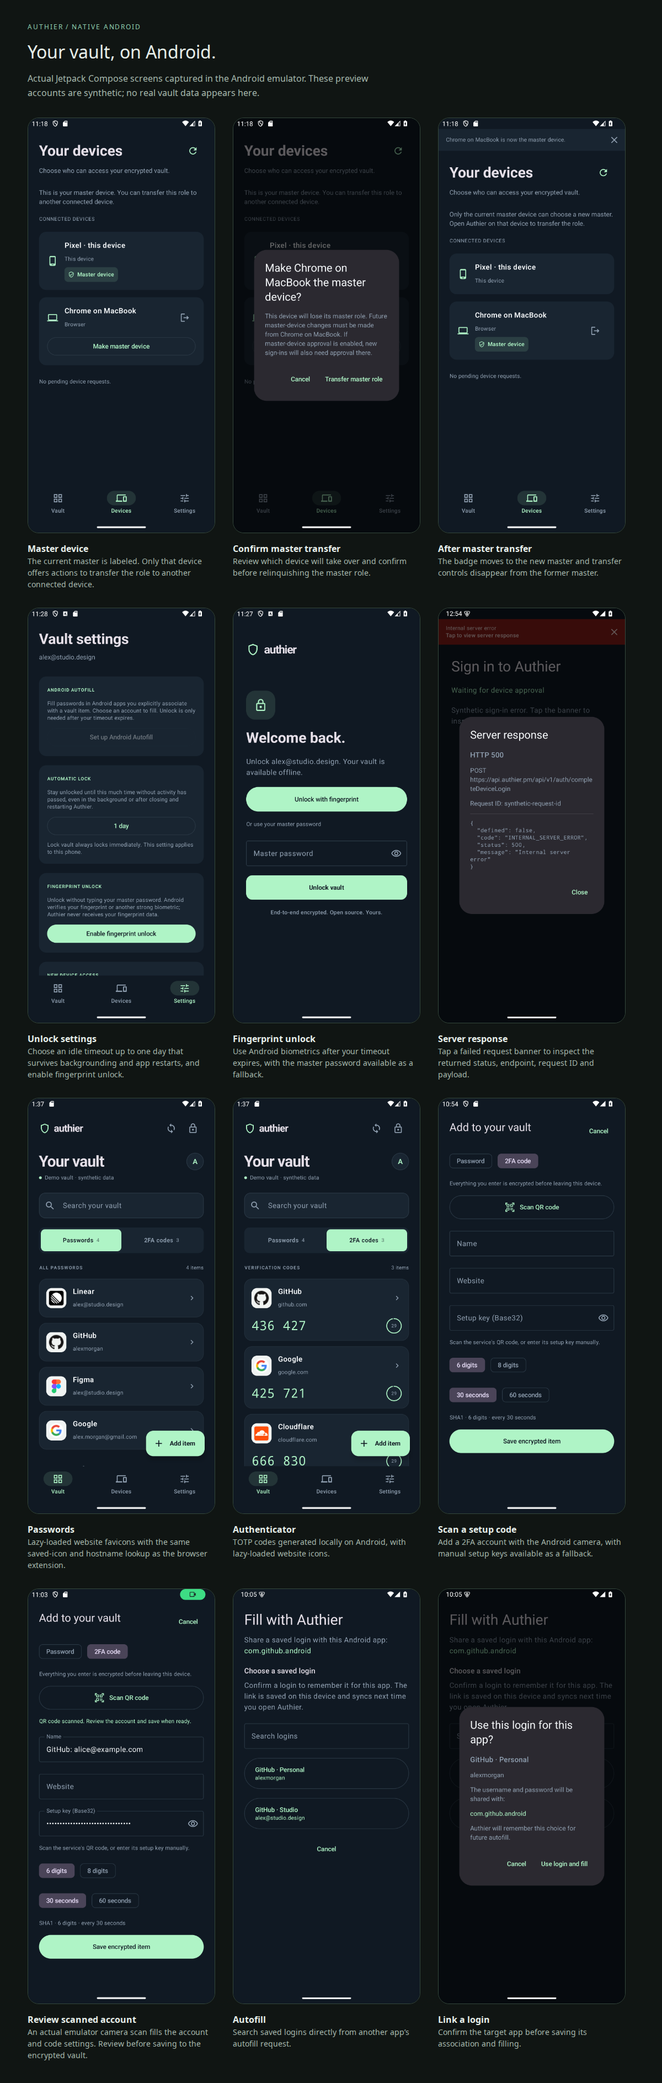
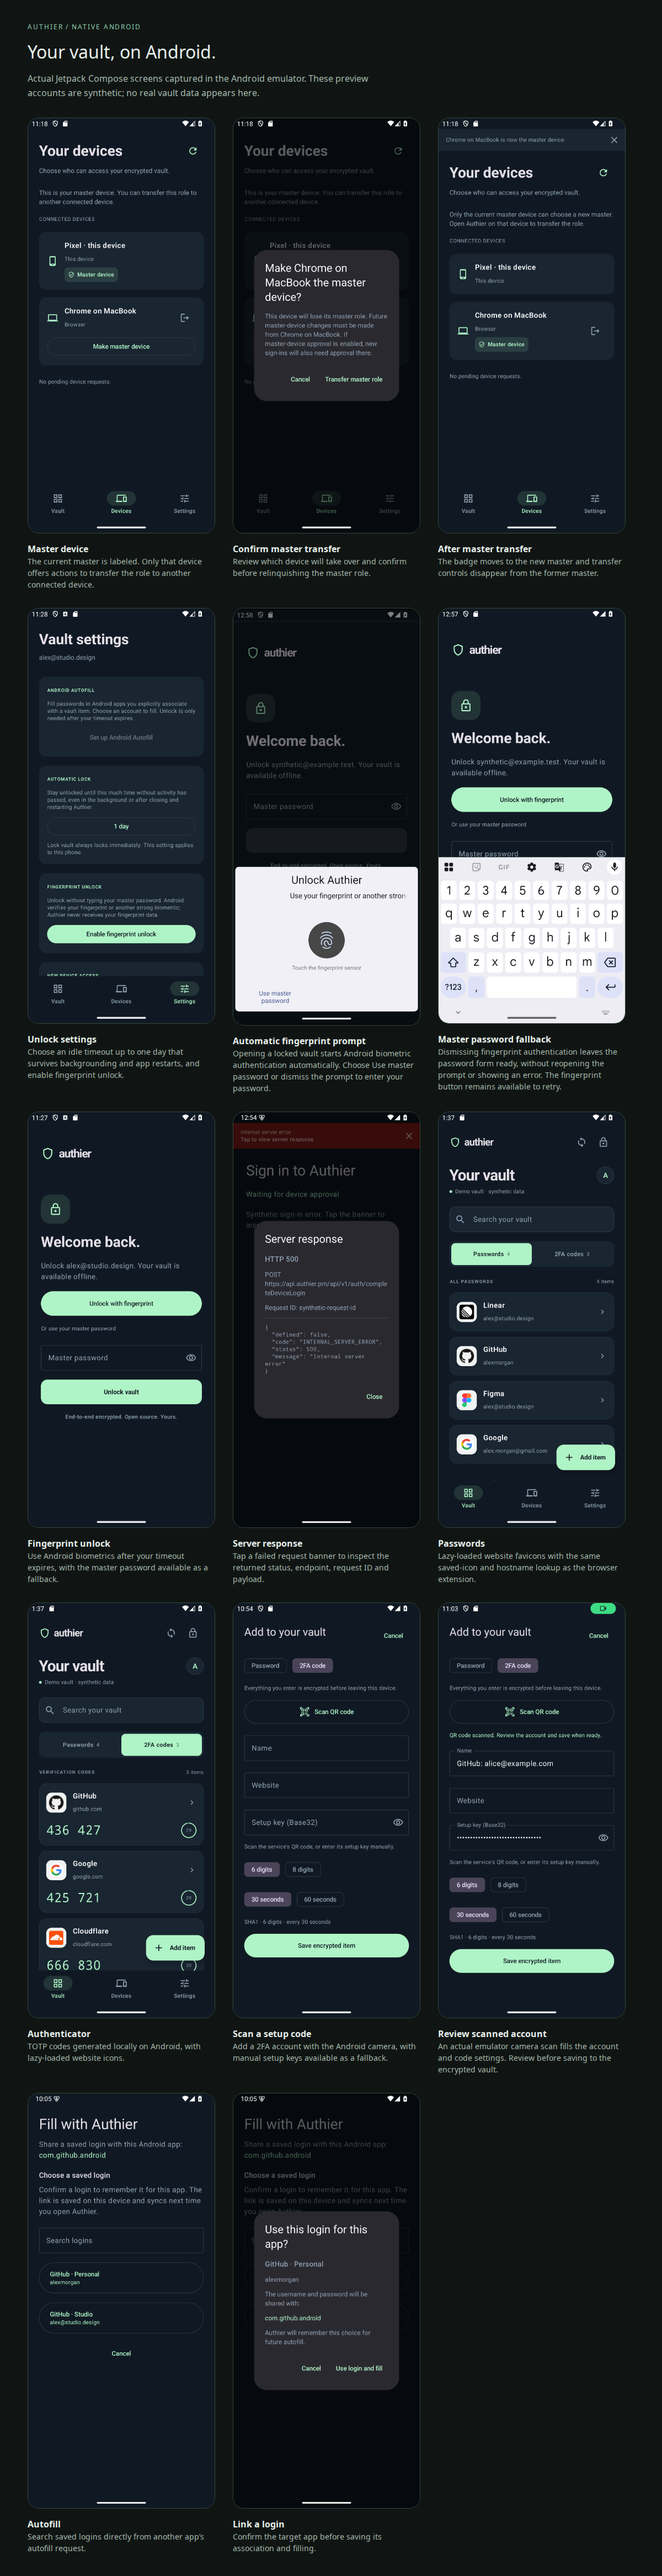
Add automatic biometric unlock with password fallback

diff --git a/android-app/app/src/androidTest/java/dev/authier/android/BiometricUnlockTest.kt b/android-app/app/src/androidTest/java/dev/authier/android/BiometricUnlockTest.kt
@@ -2,26 +2,126 @@ package dev.authier.android
 
 import android.content.Context
 import android.content.Intent
+import android.graphics.Bitmap
+import android.os.SystemClock
+import android.view.WindowManager
+import android.view.accessibility.AccessibilityNodeInfo
 import androidx.biometric.BiometricManager
+import androidx.compose.ui.test.junit4.createEmptyComposeRule
+import androidx.compose.ui.test.onNodeWithText
+import androidx.compose.ui.test.performClick
+import androidx.compose.ui.test.performTextInput
+import androidx.lifecycle.ViewModelProvider
 import androidx.test.core.app.ActivityScenario
 import androidx.test.core.app.ApplicationProvider
 import androidx.test.ext.junit.runners.AndroidJUnit4
 import androidx.test.platform.app.InstrumentationRegistry
 import kotlinx.coroutines.Dispatchers
+import kotlinx.coroutines.flow.first
 import kotlinx.coroutines.runBlocking
 import kotlinx.coroutines.withContext
 import kotlinx.coroutines.withTimeout
 import org.junit.After
+import org.junit.Rule
 import org.junit.Assert.*
 import org.junit.Assume.assumeTrue
 import org.junit.Test
 import org.junit.runner.RunWith
+import dev.authier.android.crypto.AuthierCrypto
+import java.io.File
 
 /** Run with -e biometricTest true on an emulator with a fingerprint enrolled; touch it for both prompts. */
 @RunWith(AndroidJUnit4::class)
 class BiometricUnlockTest {
+    @get:Rule val compose = createEmptyComposeRule()
     private val context: Context = ApplicationProvider.getApplicationContext()
     private var scenario: ActivityScenario<MainActivity>? = null
+
+    private fun awaitPrompt(): AccessibilityNodeInfo {
+        val automation = InstrumentationRegistry.getInstrumentation().uiAutomation
+        val deadline = SystemClock.uptimeMillis() + 10_000
+        while (SystemClock.uptimeMillis() < deadline) {
+            val button = automation.rootInActiveWindow?.findAccessibilityNodeInfosByText("Use master password")?.firstOrNull()
+            if (button != null) return button
+            SystemClock.sleep(50)
+        }
+        error("Expected the automatic Android biometric prompt")
+    }
+
+    private fun awaitIdle(model: VaultViewModel) = runBlocking {
+        withContext(Dispatchers.Main) { withTimeout(30_000) { model.ui.first { !it.busy } } }
+    }
+
+    private fun capture(name: String) {
+        val automation = InstrumentationRegistry.getInstrumentation().uiAutomation
+        automation.waitForIdle(300, 5000)
+        val bitmap = requireNotNull(automation.takeScreenshot())
+        File(context.getExternalFilesDir(null), name).outputStream().use { bitmap.compress(Bitmap.CompressFormat.PNG, 100, it) }
+        bitmap.recycle()
+    }
+
+    @Test fun openingLockedVaultPromptsAutomaticallyAndDismissalAllowsPassword() = runBlocking {
+        assumeTrue(InstrumentationRegistry.getArguments().getString("biometricTest") == "true")
+        assumeTrue(BiometricUnlock.availability(context) == BiometricManager.BIOMETRIC_SUCCESS)
+        seedUnlockFixture(context)
+        val password = "synthetic master password"
+        val vault = VaultStore(context)
+        val key = AuthierCrypto.deriveMasterKey(password, vault.read().encryptionSalt)
+        val snapshot = vault.update { it.copy(authSecretEncrypted = AuthierCrypto.encrypt(key, "synthetic device secret", it.encryptionSalt)) }
+        val store = VaultUnlockStore(context)
+        store.remember(snapshot, key)
+        val intent = Intent(context, MainActivity::class.java)
+        var activityScenario = ActivityScenario.launch<MainActivity>(intent)
+        scenario = activityScenario
+        lateinit var activity: MainActivity
+        activityScenario.onActivity { activity = it }
+        withContext(Dispatchers.Main) {
+            withTimeout(30_000) {
+                val cipher = BiometricUnlock.authenticate(activity, store.prepareBiometric(snapshot, true), true)
+                store.enableBiometric(snapshot, key, cipher)
+            }
+        }
+        activityScenario.close()
+        store.clearSession()
+        activityScenario = ActivityScenario.launch(intent)
+        scenario = activityScenario
+        lateinit var model: VaultViewModel
+        activityScenario.onActivity {
+            model = ViewModelProvider(it)[VaultViewModel::class.java]
+            // Screenshots contain only the synthetic fixture, never a real vault.
+            it.window.clearFlags(WindowManager.LayoutParams.FLAG_SECURE)
+        }
+        val fallback = awaitPrompt()
+        assertTrue(fallback.performAction(AccessibilityNodeInfo.ACTION_CLICK))
+        awaitIdle(model)
+        assertFalse(model.ui.value.unlocked)
+        assertNull(model.ui.value.error)
+        activityScenario.recreate()
+        awaitIdle(model)
+        assertFalse(model.ui.value.busy)
+        activityScenario.onActivity { it.window.clearFlags(WindowManager.LayoutParams.FLAG_SECURE) }
+        compose.waitForIdle()
+        capture("android-fingerprint-password-fallback.png")
+        compose.onNodeWithText("Master password").performTextInput(password)
+        compose.onNodeWithText("Unlock vault").performClick()
+        awaitIdle(model)
+        assertTrue(model.ui.value.unlocked)
+        activityScenario.close()
+        activityScenario = ActivityScenario.launch(intent)
+        scenario = activityScenario
+        activityScenario.onActivity { model = ViewModelProvider(it)[VaultViewModel::class.java] }
+        awaitIdle(model)
+        assertTrue("A valid timed session must bypass biometrics", model.ui.value.unlocked)
+        activityScenario.onActivity { model.lock() }
+        activityScenario.close()
+        activityScenario = ActivityScenario.launch(intent)
+        scenario = activityScenario
+        activityScenario.onActivity { model = ViewModelProvider(it)[VaultViewModel::class.java] }
+        awaitPrompt()
+        // The host touches the enrolled emulator fingerprint a second time.
+        awaitIdle(model)
+        assertTrue(model.ui.value.unlocked)
+    }
 
     @After fun cleanup() {
         if (scenario == null) return

diff --git a/android-app/app/src/main/java/dev/authier/android/VaultViewModel.kt b/android-app/app/src/main/java/dev/authier/android/VaultViewModel.kt
@@ -56,6 +56,7 @@ class VaultViewModel(application: Application) : AndroidViewModel(application) {
     private var masterKey: SecretKey? = null
     private var activeJob: Job? = null
     private var actionGeneration = 0
+    private var automaticBiometricAttempted = false
     private val state = MutableStateFlow(VaultUiState(email = snapshot.email, serverUrl = snapshot.serverUrl,
         remembered = snapshot.authSecretEncrypted.isNotBlank(), pendingWrites = snapshot.outbox.size,
         lastSyncAt = snapshot.lastSyncAt, lockTimeoutSeconds = snapshot.lockTimeoutSeconds))
@@ -81,11 +82,12 @@ class VaultViewModel(application: Application) : AndroidViewModel(application) {
             unlockStore.restore(snapshot) == null) lock()
     }
 
-    fun background() {
+    fun background(changingConfigurations: Boolean = false) {
+        if (!changingConfigurations) automaticBiometricAttempted = false
         if (state.value.lockTimeoutSeconds == 0) lock() else checkExpiry()
     }
 
-    fun resume() {
+    fun resume(activity: FragmentActivity) {
         checkExpiry()
         if (state.value.demo) return
         // Re-read the shared snapshot after autofill and restore without extending its deadline.
@@ -93,7 +95,16 @@ class VaultViewModel(application: Application) : AndroidViewModel(application) {
             snapshot = withContext(Dispatchers.IO) { store.read() }
             state.value = state.value.copy(biometricEnabled = unlockStore.biometricEnabled(snapshot),
                 lockTimeoutSeconds = snapshot.lockTimeoutSeconds)
-            val key = masterKey ?: unlockStore.restore(snapshot) ?: return@action
+            val key = masterKey ?: unlockStore.restore(snapshot)
+            if (key == null) {
+                // Once per foreground visit: dismissal leaves password entry available,
+                // including after activity recreation. A valid timed session skips the prompt.
+                if (state.value.remembered && state.value.biometricEnabled && !automaticBiometricAttempted) {
+                    automaticBiometricAttempted = true
+                    authenticateBiometric(activity)
+                }
+                return@action
+            }
             AuthierCrypto.decrypt(key, snapshot.authSecretEncrypted)
             masterKey = key
             state.value = state.value.copy(unlocked = true)
@@ -117,6 +128,11 @@ class VaultViewModel(application: Application) : AndroidViewModel(application) {
 
     fun unlockBiometric(activity: FragmentActivity) = action {
         snapshot = withContext(Dispatchers.IO) { store.read() }
+        automaticBiometricAttempted = true
+        authenticateBiometric(activity)
+    }
+
+    private suspend fun authenticateBiometric(activity: FragmentActivity) {
         val cipher = unlockStore.prepareBiometric(snapshot, enrolling = false)
         val authenticated = BiometricUnlock.authenticate(activity, cipher, enrolling = false)
         openVault(unlockStore.unlockBiometric(snapshot, authenticated))

diff --git a/web-extension/ui-preview/scenarios/AndroidVaultPreview.tsx b/web-extension/ui-preview/scenarios/AndroidVaultPreview.tsx
@@ -1,5 +1,7 @@
 import unlockSettingsScreenshot from '../../../docs/screenshots/android-unlock-settings.png'
 import fingerprintScreenshot from '../../../docs/screenshots/android-fingerprint-unlock.png'
+import automaticFingerprintScreenshot from '../../../docs/screenshots/android-fingerprint-auto-prompt.png'
+import passwordFallbackScreenshot from '../../../docs/screenshots/android-fingerprint-password-fallback.png'
 import errorScreenshot from '../../../docs/screenshots/android-api-error.png'
 import vaultScreenshot from '../../../docs/screenshots/android-vault.png'
 import totpScreenshot from '../../../docs/screenshots/android-totp.png'
@@ -37,6 +39,18 @@ const screens = [
     image: unlockSettingsScreenshot,
     description:
       'Choose an idle timeout up to one day that survives backgrounding and app restarts, and enable fingerprint unlock.'
+  },
+  {
+    title: 'Automatic fingerprint prompt',
+    image: automaticFingerprintScreenshot,
+    description:
+      'Opening a locked vault starts Android biometric authentication automatically. Choose Use master password or dismiss the prompt to enter your password.'
+  },
+  {
+    title: 'Master password fallback',
+    image: passwordFallbackScreenshot,
+    description:
+      'Dismissing fingerprint authentication leaves the password form ready, without reopening the prompt or showing an error. The fingerprint button remains available to retry.'
   },
   {
     title: 'Fingerprint unlock',

diff --git a/web-extension/tests/ui-preview/androidVault.spec.ts b/web-extension/tests/ui-preview/androidVault.spec.ts
@@ -14,6 +14,8 @@ test('renders captured native Android vault, authenticator and autofill screens'
     'Confirm master transfer',
     'After master transfer',
     'Unlock settings',
+    'Automatic fingerprint prompt',
+    'Master password fallback',
     'Fingerprint unlock',
     'Server response',
     'Passwords',
@@ -27,7 +29,10 @@ test('renders captured native Android vault, authenticator and autofill screens'
       name: `Authier Android ${name} screen`
     })
     await expect(screenshot).toBeVisible()
-    await expect(screenshot).toHaveJSProperty('naturalWidth', 1080)
+    await expect(screenshot).toHaveJSProperty(
+      'naturalWidth',
+      name === 'Automatic fingerprint prompt' ? 1280 : 1080
+    )
   }
   await page.screenshot({
     path: '../docs/screenshots/android-ui-preview.png',

diff --git a/android-app/app/src/main/java/dev/authier/android/MainActivity.kt b/android-app/app/src/main/java/dev/authier/android/MainActivity.kt
@@ -28,8 +28,8 @@ class MainActivity : FragmentActivity() {
         setContent { AuthierTheme { AuthierApp(model, intent.getIntExtra("tab", 0).takeIf { BuildConfig.DEBUG && intent.getBooleanExtra("demo", false) } ?: 0) } }
     }
 
-    override fun onResume() { super.onResume(); model.resume() }
-    override fun onStop() { model.background(); super.onStop() }
+    override fun onResume() { super.onResume(); model.resume(this) }
+    override fun onStop() { model.background(isChangingConfigurations); super.onStop() }
     override fun dispatchTouchEvent(event: MotionEvent): Boolean { if (event.actionMasked == MotionEvent.ACTION_DOWN) model.touch(); return super.dispatchTouchEvent(event) }
     override fun onWindowFocusChanged(hasFocus: Boolean) {
         super.onWindowFocusChanged(hasFocus)

diff --git a/android-app/app/src/main/java/dev/authier/android/BiometricUnlock.kt b/android-app/app/src/main/java/dev/authier/android/BiometricUnlock.kt
@@ -41,6 +41,12 @@ object BiometricUnlock {
             }
             override fun onAuthenticationError(errorCode: Int, errString: CharSequence) {
                 activity.lifecycle.removeObserver(observer)
+                if (errorCode == BiometricPrompt.ERROR_NEGATIVE_BUTTON ||
+                    errorCode == BiometricPrompt.ERROR_USER_CANCELED ||
+                    errorCode == BiometricPrompt.ERROR_CANCELED) {
+                    continuation.cancel(CancellationException("Biometric unlock dismissed"))
+                    return
+                }
                 if (continuation.isActive) continuation.resumeWithException(IllegalStateException("$errString You can use your master password."))
             }
         })

diff --git a/android-app/README.md b/android-app/README.md
@@ -60,7 +60,10 @@ Unlock once with your master password, then open Settings → Fingerprint unlock
 If no biometric is enrolled, **Register fingerprint in Android** opens system
 settings; return to Authier and enable the feature. Confirm the biometric prompt
 to wrap the vault key with an authentication-per-use Android Keystore key.
-The lock screen and Autofill then offer **Unlock with fingerprint**. Android can
+Opening the app with a locked vault automatically starts fingerprint unlock after
+checking for a valid timed session. Dismiss the prompt or choose **Use master password**
+to enter your password; dismissal stays in effect through screen rotation.
+The lock screen and Autofill also offer **Unlock with fingerprint** to retry. Android can
 also accept another Class 3 biometric. Cancellation, lockout or unavailable hardware
 leave the master-password option available. Changing biometric enrollment invalidates
 the biometric key; unlock with the password and set it up again.
@@ -124,6 +127,15 @@ adb shell am instrument -w -e class dev.authier.android.BiometricUnlockTest \
 Run `adb emu finger touch 1` from another terminal for both the enable and unlock
 prompts. This test uses authentication-per-use Keystore encryption and decryption
 with the production prompt and clears its synthetic vault afterward.
+
+The `openingLockedVaultPromptsAutomaticallyAndDismissalAllowsPassword` case needs
+one fingerprint touch for enrollment and another for the final automatic unlock.
+It checks automatic prompting, dismissal, rotation, password entry, and timed-session
+recovery. It writes `android-fingerprint-password-fallback.png` into the debug app's
+external files directory using only its synthetic test vault. Capture the final
+automatic prompt with `adb emu screenrecord screenshot <directory>` before the
+second fingerprint touch; Android's screenshot API masks the system biometric
+window. Save that emulator capture as `docs/screenshots/android-fingerprint-auto-prompt.png`.
 
 ## Website icons
 

diff --git a/web-extension/ui-preview/README.md b/web-extension/ui-preview/README.md
@@ -105,6 +105,15 @@ debug demo intent and `--ei tab 2` (settings) or `--ez locked true` (unlock),
 force-stopping the debug app before each launch. These scenarios cover a one-day
 idle timeout that survives app restarts and the biometric unlock alternative.
 
+The gallery also includes `android-fingerprint-auto-prompt.png` and
+`android-fingerprint-password-fallback.png`, captured by the opt-in Android
+`BiometricUnlockTest.openingLockedVaultPromptsAutomaticallyAndDismissalAllowsPassword`
+test. These show the real system prompt opening automatically and the production
+password form after dismissal, using an encrypted synthetic vault. Capture the
+prompt through the emulator console (see `android-app/README.md`), pull the fallback
+from the debug app's external files directory into `docs/screenshots/`, and run
+`pnpm playwright:ui-preview androidVault.spec.ts` to refresh the gallery.
+
 The `android-blog` scenario embeds the production native Android launch article.
 Run the `Android launch article` test in `playwrightAndroidUpdates.config.ts` to
 verify desktop/mobile layout, screenshot assets and download links, and capture
